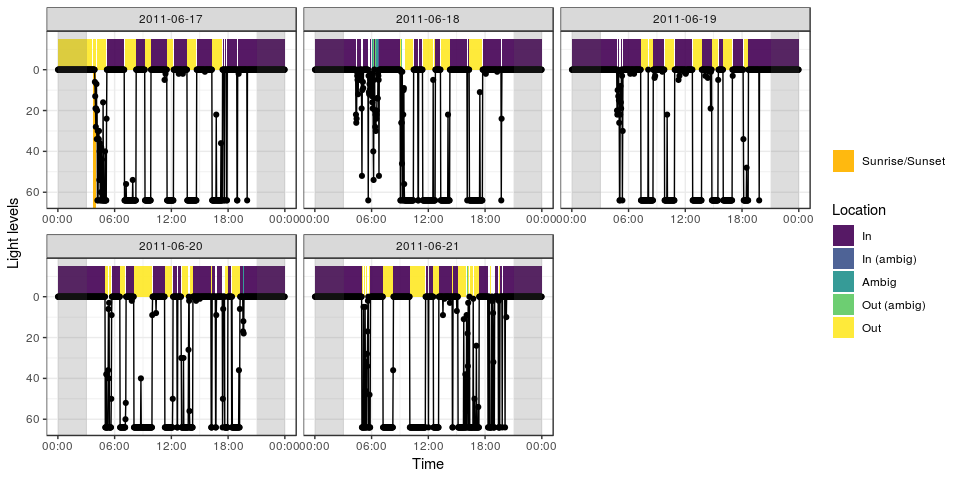
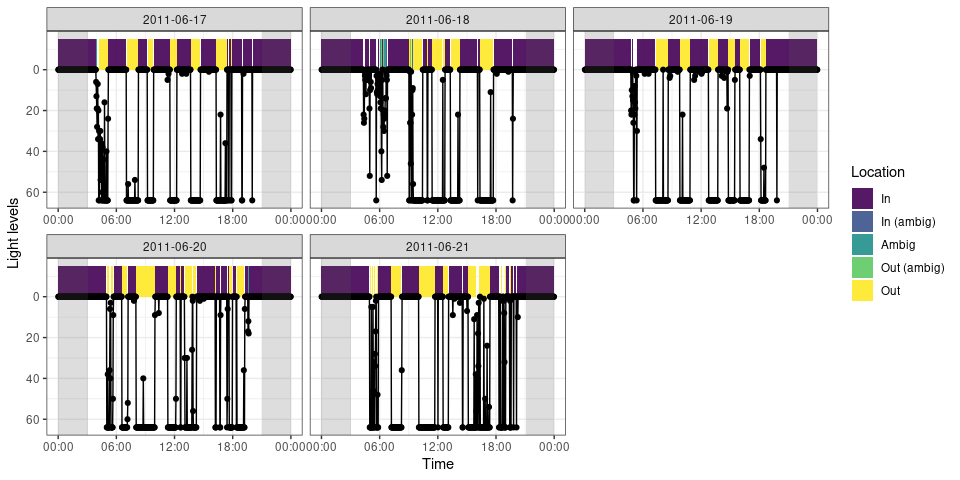
More housekeeping

Changed region(s): [[0.0312, 0.0, 1.0, 1.0]]

diff --git a/README.md b/README.md
@@ -1,26 +1,35 @@
 
-[![Build Status](https://travis-ci.org/steffilazerte/cavityuse.svg?branch=master)](https://travis-ci.org/steffilazerte/cavityuse) [![AppVeyor Build status](https://ci.appveyor.com/api/projects/status/l2afqnduhmmir3xl/branch/master?svg=true)](https://ci.appveyor.com/project/steffilazerte/cavityuse/branch/master) [![codecov](https://codecov.io/gh/steffilazerte/cavityuse/branch/master/graph/badge.svg)](https://codecov.io/gh/steffilazerte/cavityuse)
+<!-- badges: start -->
 
-cavityuse
-=========
+[![R-CMD-check](https://github.com/steffilazerte/cavityuse/workflows/R-CMD-check/badge.svg)](https://github.com/steffilazerte/cavityuse/actions)
+[![codecov](https://codecov.io/gh/steffilazerte/cavityuse/branch/master/graph/badge.svg)](https://codecov.io/gh/steffilazerte/cavityuse)
+<!-- badges: end -->
+
+# cavityuse
 
 *Detecting Cavity Use From Geolocator Data*
 
-`cavityuse` is an R package for calculating patterns of cavity use from geolocator light data. Patterns of light and dark are used to identify daytime usage, while patterns of sunrise/sunset are used to identify nighttime usage.
+`cavityuse` is an R package for calculating patterns of cavity use from
+geolocator light data. Patterns of light and dark are used to identify
+daytime usage, while patterns of sunrise/sunset are used to identify
+nighttime usage.
 
-> While `cavityuse` is ready to be experimented with, it's still in early development and should be considered **experimental**. Please give me a hand by letting me know of any problems you have (missing functionality, difficult to use, bugs, etc.)
+> While `cavityuse` is ready to be experimented with, it’s still in
+> early development and should be considered **experimental**. Please
+> give me a hand by letting me know of any problems you have (missing
+> functionality, difficult to use, bugs, etc.)
 
-Installing `cavityuse`
-----------------------
+## Installing `cavityuse`
 
-You can use the `devtools` package to install `cavityuse` directly from GitHub
+You can install `cavityuse` directly from my R-Universe:
 
 ``` r
-devtools::install_github("steffilazerte/cavityuse")
+install.packages("cavityuse", 
+                 repos = c("https://steffilazerte.r-universe.dev", 
+                           "https://cloud.r-project.org"))
 ```
 
-Getting started
----------------
+## Getting started
 
 Load the package
 
@@ -28,13 +37,13 @@ Load the package
 library(cavityuse)
 ```
 
-    ## cavityuse v0.1.0
+    ## cavityuse v0.5.0
     ## Please note that 'cavityuse' is still in early development
     ## Help by submitting bugs/feature requests: http://github.com/steffilazerte/cavityuse/issues
 
-We'll get started with the built in example file `flicker`
+We’ll get started with the built in example file `flicker`
 
-Let's take a look at the patterns in the raw data:
+Let’s take a look at the patterns in the raw data:
 
 ``` r
 cavity_plot(flicker)
@@ -49,12 +58,11 @@ s <- sun_detect(flicker)
 s
 ```
 
-    ## # A tibble: 1 x 6
-    ##   date       time                dir     n_range     n   dur
-    ##   <date>     <dttm>              <chr>     <dbl> <int> <dbl>
-    ## 1 2011-06-17 2011-06-17 03:40:50 sunrise      28    10    20
+    ## # A tibble: 0 × 7
+    ## # … with 7 variables: date <date>, time <dttm>, dir <chr>, n_range <dbl>,
+    ## #   n <int>, dur <dbl>, offset_applied <lgl>
 
-Let's see what these look like
+Let’s see what these look like
 
 ``` r
 cavity_plot(data = flicker, sun = s, start = "2011-06-17", days = 1)
@@ -62,30 +70,32 @@ cavity_plot(data = flicker, sun = s, start = "2011-06-17", days = 1)
 
 <img src="man/figures/unnamed-chunk-6-1.png" width="100%" />
 
-Using these detected times, assign the rest of the light data to bouts of cavity use:
+Using these detected times, assign the rest of the light data to bouts
+of cavity use:
 
 ``` r
 e <- cavity_detect(flicker, sun = s)
 e
 ```
 
-    ## # A tibble: 213 x 9
-    ##    date       start               end                 length_hrs location
-    ##    <date>     <dttm>              <dttm>                   <dbl> <chr>   
-    ##  1 2011-06-17 2011-06-17 00:00:50 2011-06-17 03:38:50      3.63  out     
-    ##  2 2011-06-17 2011-06-17 03:40:50 2011-06-17 04:04:50      0.4   out     
-    ##  3 2011-06-17 2011-06-17 04:06:50 2011-06-17 04:06:50      0     out_amb…
-    ##  4 2011-06-17 2011-06-17 04:08:50 2011-06-17 04:08:50      0     ambig   
-    ##  5 2011-06-17 2011-06-17 04:10:50 2011-06-17 05:06:50      0.933 out     
-    ##  6 2011-06-17 2011-06-17 05:08:50 2011-06-17 05:08:50      0     ambig   
-    ##  7 2011-06-17 2011-06-17 05:10:50 2011-06-17 07:00:50      1.83  in      
-    ##  8 2011-06-17 2011-06-17 07:02:50 2011-06-17 08:14:50      1.2   out     
-    ##  9 2011-06-17 2011-06-17 08:16:50 2011-06-17 09:10:50      0.9   in      
-    ## 10 2011-06-17 2011-06-17 09:12:50 2011-06-17 09:48:50      0.6   out     
-    ## # ... with 203 more rows, and 4 more variables: thresh_dark <dbl>,
-    ## #   thresh_light <dbl>, ambig_dark <dbl>, ambig_light <dbl>
+    ## # A tibble: 217 × 12
+    ##    date       start               end                 length_hrs location 
+    ##    <date>     <dttm>              <dttm>                   <dbl> <chr>    
+    ##  1 2011-06-17 2011-06-17 00:00:50 2011-06-17 03:52:50     3.87   in       
+    ##  2 2011-06-17 2011-06-17 03:54:50 2011-06-17 03:54:50     0      in_ambig 
+    ##  3 2011-06-17 2011-06-17 03:56:50 2011-06-17 03:58:50     0.0333 ambig    
+    ##  4 2011-06-17 2011-06-17 04:00:50 2011-06-17 04:00:50     0      out_ambig
+    ##  5 2011-06-17 2011-06-17 04:02:50 2011-06-17 04:02:50     0      ambig    
+    ##  6 2011-06-17 2011-06-17 04:04:50 2011-06-17 04:04:50     0      in_ambig 
+    ##  7 2011-06-17 2011-06-17 04:06:50 2011-06-17 04:06:50     0      out_ambig
+    ##  8 2011-06-17 2011-06-17 04:08:50 2011-06-17 04:08:50     0      ambig    
+    ##  9 2011-06-17 2011-06-17 04:10:50 2011-06-17 05:06:50     0.933  out      
+    ## 10 2011-06-17 2011-06-17 05:08:50 2011-06-17 05:08:50     0      ambig    
+    ## # … with 207 more rows, and 7 more variables: offset_applied <dbl>, lon <dbl>,
+    ## #   lat <dbl>, thresh_dark <dbl>, thresh_light <dbl>, ambig_dark <dbl>,
+    ## #   ambig_light <dbl>
 
-Let's see how these assignments match the patterns we see
+Let’s see how these assignments match the patterns we see
 
 ``` r
 cavity_plot(data = flicker, cavity = e, sun = s)
@@ -93,88 +103,101 @@ cavity_plot(data = flicker, cavity = e, sun = s)
 
 <img src="man/figures/unnamed-chunk-8-1.png" width="100%" />
 
-With your own data
-------------------
+## With your own data
 
-You data must be in a data frame with the columns called `time` and `light`.
+You data must be in a data frame with the columns called `time` and
+`light`.
 
 -   `time` must be in a `date/time` format
--   `light` must be a number, representing light levels in lux (low = dark, high = light)
+-   `light` must be a number, representing light levels in lux (low =
+    dark, high = light)
 
 For example:
 
-    ## # A tibble: 3,600 x 2
+    ## # A tibble: 3,600 × 2
     ##    time                light
     ##    <dttm>              <dbl>
-    ##  1 2011-06-17 00:00:50     0
-    ##  2 2011-06-17 00:02:50     0
-    ##  3 2011-06-17 00:04:50     0
-    ##  4 2011-06-17 00:06:50     0
-    ##  5 2011-06-17 00:08:50     0
-    ##  6 2011-06-17 00:10:50     0
-    ##  7 2011-06-17 00:12:50     0
-    ##  8 2011-06-17 00:14:50     0
-    ##  9 2011-06-17 00:16:50     0
-    ## 10 2011-06-17 00:18:50     0
-    ## # ... with 3,590 more rows
+    ##  1 2011-06-17 08:00:50     0
+    ##  2 2011-06-17 08:02:50     0
+    ##  3 2011-06-17 08:04:50     0
+    ##  4 2011-06-17 08:06:50     0
+    ##  5 2011-06-17 08:08:50     0
+    ##  6 2011-06-17 08:10:50     0
+    ##  7 2011-06-17 08:12:50     0
+    ##  8 2011-06-17 08:14:50     0
+    ##  9 2011-06-17 08:16:50     0
+    ## 10 2011-06-17 08:18:50     0
+    ## # … with 3,590 more rows
 
-Consider using the [`lubridate`](https://lubridate.tidyverse.org/) package to format your times
+Consider using the [`lubridate`](https://lubridate.tidyverse.org/)
+package to format your times
 
 ### Timezones
 
-Although most geolocator data is in the UTC timezone, to more efficiently detect sunrise/sunset times, your data should be in the timezone of your location (non-daylight savings).
+Most geolocator data is in the UTC timezone, and although previous
+versions of cavityuse recommended converting your data to your the
+timezone of your location (non-daylight savings), I now recommend
+keeping it in UTC. cavityuse will apply a timezone offset to your data
+according to the location.
 
-You can use the `tz_offset` function to determine what timezone this would be, and the `with_tz` function from the lubridate package to assign this timezone to your data:
-
-``` r
-tz_offset("America/Vancouver")
-```
-
-    ## [1] "Etc/GMT+8"
-
-``` r
-library(lubridate)
-data$time <- with_tz(data$time, "Etc/GMT+8")
-```
+This means that the time output by cavityuse will be in UTC according to
+R, however it will actually have had an offset applied (noted in the new
+column `tz_offset`). This just makes things simpler.
 
 ### Coordinates
 
-`cavityuse` functions require coordinates in order to more efficiently detect sunrise/sunset times, but also to estimate sunrise/sunset when they are not detected in the data.
+`cavityuse` functions require coordinates in order to more efficiently
+detect sunrise/sunset times, but also to estimate sunrise/sunset when
+they are not detected in the data.
 
 You can supply coordinates in one of two ways.
 
--   You can have `lon` and `lat` columns, indicating the decimal coordinates for your location either in your data
+-   You can have `lon` and `lat` columns, indicating the decimal
+    coordinates for your location either in your data
 
 <!-- -->
 
-    ## # A tibble: 3,600 x 4
+    ## # A tibble: 3,600 × 4
     ##    time                light   lon   lat
     ##    <dttm>              <dbl> <dbl> <dbl>
-    ##  1 2011-06-17 00:00:50     0 -120.  50.7
-    ##  2 2011-06-17 00:02:50     0 -120.  50.7
-    ##  3 2011-06-17 00:04:50     0 -120.  50.7
-    ##  4 2011-06-17 00:06:50     0 -120.  50.7
-    ##  5 2011-06-17 00:08:50     0 -120.  50.7
-    ##  6 2011-06-17 00:10:50     0 -120.  50.7
-    ##  7 2011-06-17 00:12:50     0 -120.  50.7
-    ##  8 2011-06-17 00:14:50     0 -120.  50.7
-    ##  9 2011-06-17 00:16:50     0 -120.  50.7
-    ## 10 2011-06-17 00:18:50     0 -120.  50.7
-    ## # ... with 3,590 more rows
+    ##  1 2011-06-17 08:00:50     0 -120.  50.7
+    ##  2 2011-06-17 08:02:50     0 -120.  50.7
+    ##  3 2011-06-17 08:04:50     0 -120.  50.7
+    ##  4 2011-06-17 08:06:50     0 -120.  50.7
+    ##  5 2011-06-17 08:08:50     0 -120.  50.7
+    ##  6 2011-06-17 08:10:50     0 -120.  50.7
+    ##  7 2011-06-17 08:12:50     0 -120.  50.7
+    ##  8 2011-06-17 08:14:50     0 -120.  50.7
+    ##  9 2011-06-17 08:16:50     0 -120.  50.7
+    ## 10 2011-06-17 08:18:50     0 -120.  50.7
+    ## # … with 3,590 more rows
 
--   You can have a separte variable that you supply to each function (order matters, and must be `lon`, `lat`):
+-   You can have a separate variable that you supply to each function
+    (order matters, and must be `lon`, `lat`):
 
 ``` r
 sun_times(data, loc = c(-120.3408, 50.67611))
 ```
 
-Limitations
------------
+## Limitations
 
 Right now, `cavityuse` is limited to the follow scenarios:
 
--   **No big changes in location (i.e. No migration)** Changes in location can interfere with how `cavityuse` assigns activity based on sunrise/sunset times which are inferred from lon/lat (this may change in the future)
--   **No extreme latitudes** Because of the way `cavityuse` detects sunrise and sunset, extremely latitudes may result in unpredicatable behaviour (this should hopefully be fixed in the future)
--   **Animals which use cavities at night, must normally enter their cavity *before* it gets dark and exit *after* it gets light** With out the ability to detect sunrise/sunset it is impossible to determine cavityuse at night
+-   **No big changes in location (i.e. No migration)** Changes in
+    location can interfere with how `cavityuse` assigns activity based
+    on sunrise/sunset times which are inferred from lon/lat (this may
+    change in the future). Minor migratory changes can be accommodated,
+    and larger ones can be somewhat handled by splitting the data by
+    location (different lat/lons) and applying `cavity_detect()` to each
+    set of locations. But this isn’t perfect.
+-   **No extreme latitudes** Because of the way `cavityuse` detects
+    sunrise and sunset, extremely latitudes may result in unpredicatable
+    behaviour (this should hopefully be fixed in the future)
+-   **Animals which use cavities at night, must normally enter their
+    cavity *before* it gets dark and exit *after* it gets light** With
+    out the ability to detect sunrise/sunset it is impossible to
+    determine cavityuse at night
 
-Please note that this project is released with a [Contributor Code of Conduct](CONDUCT.md). By participating in this project you agree to abide by its terms.
+Please note that this project is released with a [Contributor Code of
+Conduct](CONDUCT.md). By participating in this project you agree to
+abide by its terms.
